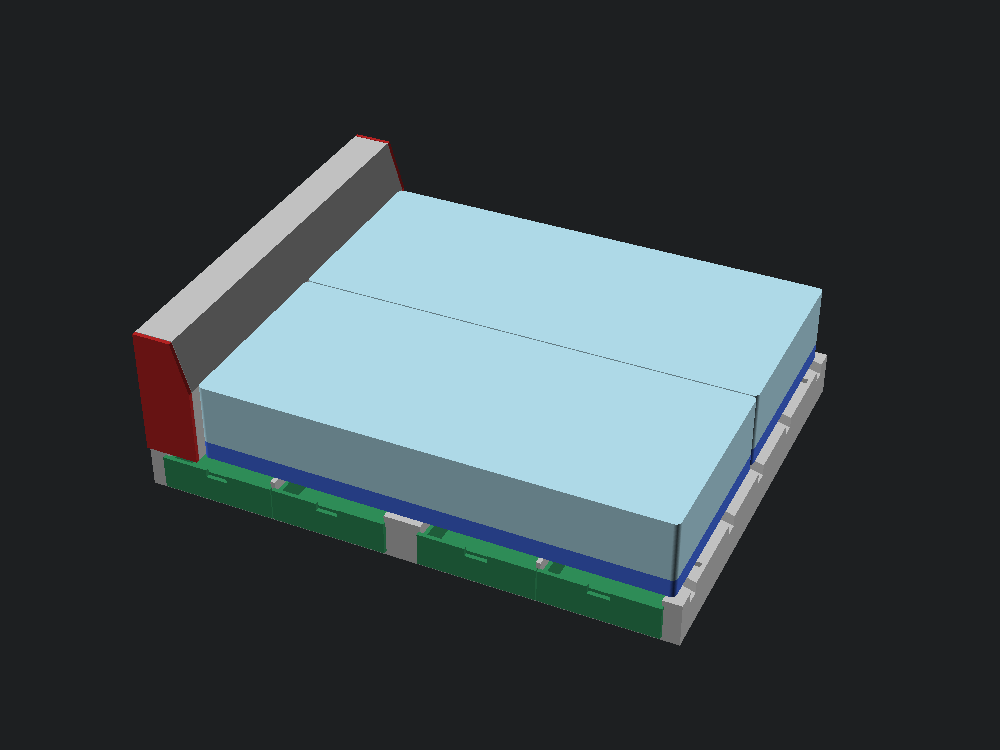
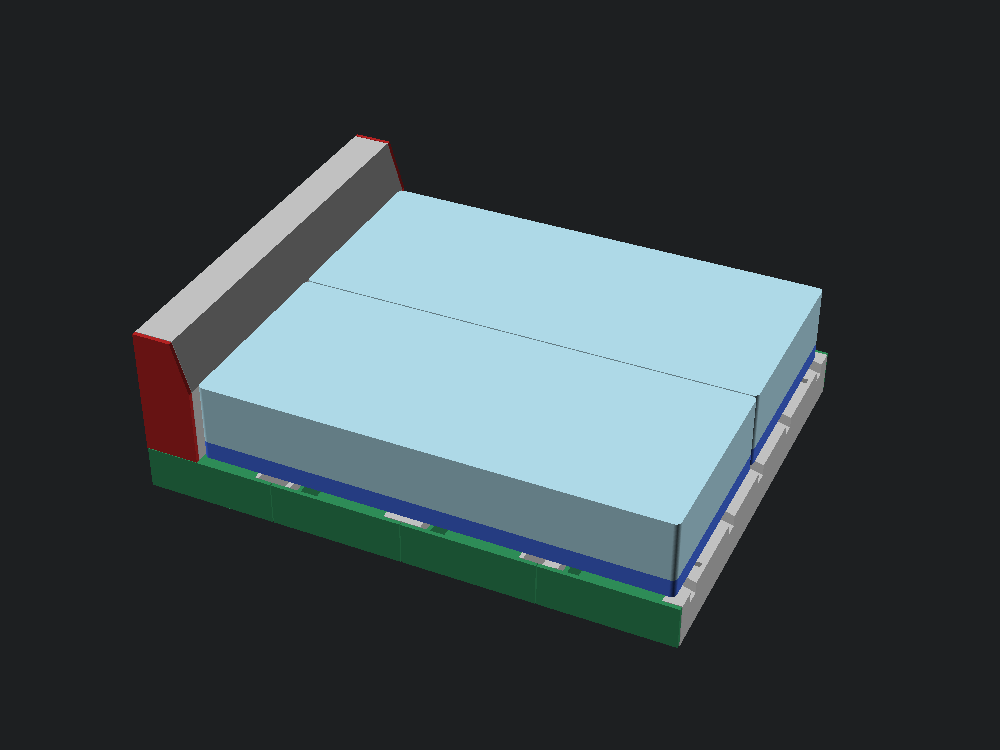
fix: make bed drawers full-face and nightstands flat-topped
Move complete finished panels with each base drawer, remove finger cutouts, and invert the nightstand cavities beneath solid shelf tops. Preserve interchangeable drawers with centered bays and support-free front-down printing, and regenerate the assembly previews and print plan.

Changed region(s): [[0.124, 0.5827, 0.62, 0.828], [0.589, 0.7973, 0.682, 0.8587]]

diff --git a/custom-king-storage-bed/miniature/model.py b/custom-king-storage-bed/miniature/model.py
@@ -34,12 +34,13 @@ LENGTH = full.OVERALL_LENGTH * MM
 SIDE_INSET = full.FACE_THICKNESS * MM
 WALL = 1.8
 COLLAR = 8.4
-DIVIDER = 2.0
+DIVIDER = 2*COLLAR
 KEY_HEIGHT = 5.0
 PIN_SIZE = 4.0
 PIN_HEIGHT = 3.6
 HOLE_DEPTH = 2.25
 DRAWER_TRAVEL = 35.0
+DRAWER_BODY_HEIGHT = 13.4
 POD_TRAVEL = full.POD_EXTENSION * MM
 POD_LENGTH = 72.0
 CAP = 1.9
@@ -114,6 +115,9 @@ def make_module(width, side, fit):
         for x in (COLLAR, COLLAR+opening+DIVIDER):
             result -= box(opening, width-COLLAR+EPS, HEIGHT,
                           (x, -EPS, WALL))
+        # Two thin guide walls keep the wide center divider light behind the full faces.
+        result -= box(DIVIDER-2*WALL, width-COLLAR+EPS, HEIGHT,
+                      (L/2-DIVIDER/2+WALL, -EPS, WALL))
     else:
         result -= box(L-2*COLLAR, width-2*COLLAR, HEIGHT,
                       (COLLAR, COLLAR, WALL))
@@ -130,12 +134,18 @@ def make_module(width, side, fit):
 
 def make_drawer(fit):
     opening = (L-2*COLLAR-DIVIDER)/2
-    w, d, h = opening-2*fit, SIDE-COLLAR-fit, 13.4
-    tray = box(w, d, h) - box(w-2*WALL, d-2*WALL, h,
-                              (WALL, WALL, WALL))
-    front = box(w+2.0, SIDE_INSET, 15.5, (-1.0, -SIDE_INSET, 0))
-    front -= box(10, SIDE_INSET+2*EPS, 3.6+EPS,
-                 (w/2-5, -SIDE_INSET-EPS, 11.9))
+    w, d, h = opening-2*fit, SIDE-COLLAR-fit, DRAWER_BODY_HEIGHT
+    # Front-down printing grows the internal rear ramp at 45 degrees, not as a bridged lid.
+    cavity_profile = [
+        (WALL, WALL), (d-WALL-(h-WALL), WALL),
+        (d-WALL+EPS, h+EPS), (WALL, h+EPS),
+    ]
+    cavity_face = Face(Wire.make_polygon(
+        [Vector(WALL, y, z) for y, z in cavity_profile], close=True))
+    cavity = extrude(cavity_face, amount=w-2*WALL, dir=(1, 0, 0))
+    tray = box(w, d, h)-cavity
+    front = box(L/2-2*fit, SIDE_INSET, HEIGHT-2*fit,
+                (-COLLAR, -SIDE_INSET, -WALL))
     return tray + front
 
 
@@ -168,8 +178,8 @@ def make_pod(fit):
     w = CHANNEL_X[1]-CHANNEL_X[0]-2*fit
     h = CHANNEL_Z[1]-CHANNEL_Z[0]-2*fit
     body = box(w, POD_LENGTH-CAP, h, (x, CAP, z))
-    body -= box(w-2*WALL, POD_LENGTH-CAP-WALL+EPS, h,
-                (x+WALL, CAP-EPS, z+WALL))
+    body -= box(w-2*WALL, POD_LENGTH-CAP-WALL+EPS, h-WALL+EPS,
+                (x+WALL, CAP-EPS, z-EPS))
     # A long hidden tail retains 29 mm of guidance at the 40.64 mm open pose.
     return headboard_solid(0, CAP) + body
 
@@ -253,13 +263,13 @@ def parts(fit):
     return {
         "side-module": Part(make_module(SIDE, True, fit), 4, 3, purpose="Open top up; outer drawer openings face out."),
         "center-module": Part(make_module(CENTER, False, fit), 2, 3, purpose="Open top up."),
-        "drawer": Part(make_drawer(fit), 8, 4, purpose="Tray opening up; front and finger notch are integral."),
+        "drawer": Part(make_drawer(fit), 8, 4, (90, 0, 0), "Full finished face down for printing; open tray up when assembled. Rear cavity ramp is 45 degrees."),
         "seam-key": Part(make_key(), 13, 3, purpose="Flat down; top-loaded seam key with a 2.4 mm extraction hole."),
         "foot": Part(make_foot(), 12, 3, purpose="Pad down, locating peg up."),
         "headboard-pin": Part(box(PIN_SIZE, PIN_SIZE, PIN_HEIGHT), 2, 3, purpose="One pin at each headboard locating hole."),
         "headboard": Part(make_headboard(fit), 1, 3, (0, -90, 0), "Back flat on the plate; channel roofs bridge 12.5 mm."),
-        "pod-left": Part(make_pod(fit), 1, 1, (90, 0, 0), "Left end cap flat down; tray grows vertically."),
-        "pod-right": Part(mirror(make_pod(fit), about=Plane.XZ), 1, 1, (-90, 0, 0), "Mirrored right end cap flat down; tray grows vertically."),
+        "pod-left": Part(make_pod(fit), 1, 1, (90, 0, 0), "Left end cap down for printing; assemble with flat shelf up and hollow underside down."),
+        "pod-right": Part(mirror(make_pod(fit), about=Plane.XZ), 1, 1, (-90, 0, 0), "Mirrored right end cap down for printing; assemble with flat shelf up and hollow underside down."),
         "base-insert": Part(make_base(), 2, 2, purpose="Lattice down; four mattress locators up. Static envelope only."),
         "mattress": Part(make_mattress(fit), 2, 2, (180, 0, 0), "Top face down; hollow ribbed underside up."),
         "fit-channels": Part(make_coupon(fit), 1, 3, purpose="Calibration only: one/two/three ticks = 0.20/0.25/0.35 mm per side."),
@@ -359,15 +369,36 @@ def validate(kit, fit):
         r._record(not collisions, f"{label}: no part interference; collisions={collisions}")
     drawer = kit["drawer"].shape
     opening = (L-2*COLLAR-DIVIDER)/2
+    printed_front = kit["drawer"].printable().intersect(
+        box(L/2-2*fit, HEIGHT-2*fit, SIDE_INSET))
+    r.volume(printed_front, (L/2-2*fit)*(HEIGHT-2*fit)*SIDE_INSET, tol_pct=0.01)
+    for index, x in enumerate((COLLAR, COLLAR+opening+DIVIDER)):
+        face_probe = box(L/2-2*fit, SIDE_INSET, HEIGHT-2*fit,
+                         (index*L/2+fit, -SIDE_INSET, fit))
+        closed_drawer = Pos(x+fit, 0, WALL+fit)*drawer
+        r.note(f"Drawer {index+1}: complete finished face with no finger notch or exposed face frame.")
+        r.volume(closed_drawer.intersect(face_probe), face_probe.volume, tol_pct=0.01)
     for x in (COLLAR, COLLAR+opening+DIVIDER):
         # Swept envelope includes every position, not only two end poses.
-        sweep = extrude(Face(Wire.make_polygon([
-            Vector(-1, 0, 0), Vector(opening-2*fit+1, 0, 0),
-            Vector(opening-2*fit+1, 0, 15.5), Vector(-1, 0, 15.5),
-        ], close=True)), amount=DRAWER_TRAVEL, dir=(0, -1, 0))
-        r.no_interference(Pos(x+fit, 0, WALL+fit)*sweep, kit["side-module"].shape)
+        face_sweep = box(L/2-2*fit, SIDE_INSET+DRAWER_TRAVEL, HEIGHT-2*fit,
+                         (-COLLAR, -SIDE_INSET-DRAWER_TRAVEL, -WALL))
+        body_sweep = box(opening-2*fit, SIDE-COLLAR-fit+DRAWER_TRAVEL, DRAWER_BODY_HEIGHT,
+                         (0, -DRAWER_TRAVEL, 0))
+        for sweep in (face_sweep, body_sweep):
+            r.no_interference(Pos(x+fit, 0, WALL+fit)*sweep, kit["side-module"].shape)
         for travel in (0, DRAWER_TRAVEL/2, DRAWER_TRAVEL):
             r.no_interference(Pos(x+fit, -travel, WALL+fit)*drawer, kit["side-module"].shape)
+    pod_width = CHANNEL_X[1]-CHANNEL_X[0]-2*fit
+    flat_top = box(pod_width, POD_LENGTH-CAP, WALL,
+                   (CHANNEL_X[0]+fit, CAP, CHANNEL_Z[1]-fit-WALL))
+    underside = box(pod_width-2*WALL, POD_LENGTH-CAP-WALL-EPS, WALL/2,
+                    (CHANNEL_X[0]+fit+WALL, CAP+EPS, CHANNEL_Z[0]+fit+EPS))
+    for name in ("pod-left", "pod-right"):
+        top_probe = flat_top if name == "pod-left" else mirror(flat_top, about=Plane.XZ)
+        underside_probe = underside if name == "pod-left" else mirror(underside, about=Plane.XZ)
+        r.note(f"{name}: continuous flat top and open underside, not an open-top drawer.")
+        r.volume(kit[name].shape.intersect(top_probe), top_probe.volume, tol_pct=0.01)
+        r.no_interference(kit[name].shape, underside_probe)
     for travel in (0, POD_TRAVEL/4, POD_TRAVEL/2, 3*POD_TRAVEL/4, POD_TRAVEL):
         r.no_interference(Pos(0, -travel, 0)*kit["pod-left"].shape, kit["headboard"].shape)
         r.no_interference(Pos(0, WIDTH+travel, 0)*kit["pod-right"].shape, kit["headboard"].shape)

diff --git a/custom-king-storage-bed/miniature/slice.rb b/custom-king-storage-bed/miniature/slice.rb
@@ -63,7 +63,7 @@ selected.each do |name|
     mesh.match?(/^manifold = yes$/) && mesh.match?(/^number_of_parts =\s+1$/)
   File.write(File.join(BUILD, "slice-reports", "#{name}-mesh.txt"), mesh)
 
-  brim = %w[foot headboard-pin seam-key pod-left pod-right base-insert mattress headboard].include?(name) ? 3 : 0
+  brim = %w[drawer foot headboard-pin seam-key pod-left pod-right base-insert mattress headboard].include?(name) ? 3 : 0
   x, y, z = part.fetch("size_mm")
   # Reserve the larger of the skirt or brim, plus an extrusion-width margin.
   margin = [brim, 3].max + 0.6

diff --git a/custom-king-storage-bed/miniature/README.md b/custom-king-storage-bed/miniature/README.md
@@ -20,13 +20,13 @@ The [generated print plan](print-plan.md) lists measured per-copy and complete-k
 |---|---:|---|---|
 | `side-module` | 4 | 3 / silver PLA | Floor down, both bays open upward |
 | `center-module` | 2 | 3 / silver PLA | Floor down, cavity upward |
-| `drawer` | 8 | 4 / green PLA | Open tray upward |
+| `drawer` | 8 | 4 / green PLA | Complete finished face down, tray vertical |
 | `seam-key` | 13 | 3 / silver PLA | Broad face down |
 | `foot` | 12 | 3 / silver PLA | Pad down, square peg up |
 | `headboard-pin` | 2 | 3 / silver PLA | Flat end down |
 | `headboard` | 1 | 3 / silver PLA | Broad back down, not upright |
-| `pod-left` | 1 | 1 / red PLA | End cap down, tray vertical |
-| `pod-right` | 1 | 1 / red PLA | Mirrored end cap down, tray vertical |
+| `pod-left` | 1 | 1 / red PLA | End cap down, shelf vertical |
+| `pod-right` | 1 | 1 / red PLA | Mirrored end cap down, shelf vertical |
 | `base-insert` | 2 | 2 / blue PLA | Lattice down, locators up |
 | `mattress` | 2 | 2 / blue PLA | Top down, underside recess up |
 | `fit-channels` | 1, calibration only | 3 / silver PLA | Flat base down |
@@ -37,9 +37,11 @@ The two pods are genuinely handed parts: print one of each, not two copies of th
 
 ## Design contract
 
-The frame consists of four identical outside two-drawer modules and two identical center modules, arranged three across and two long. Thirteen top-loaded butterfly keys join the six modules; twelve removable feet preserve the scaled floor clearance. Eight hollow drawers have integrated fronts and finger notches. One removable headboard locates on two square pins, with two end-cap nightstand trays sliding laterally. Two static adjustable-base envelopes support two separate rigid mattress pieces, hollow underneath with a 2.4 mm top skin and internal ribs to reduce material.
+The frame consists of four identical outside two-drawer modules and two identical center modules, arranged three across and two long. Thirteen top-loaded butterfly keys join the six modules; twelve removable feet preserve the scaled floor clearance. Each of the eight hollow drawers carries its complete finished face: a full-height half-module panel, with no finger notch and no exposed fixed frame surrounding it. Narrow seams separate the panels, and the entire panel moves with its drawer. One removable headboard locates on two square pins, with two flat-topped nightstand shelves whose whole end caps slide laterally. Each shelf is like an inverted drawer: a continuous 1.8 mm top with a hollow underside and downward side walls that ride on the channel floor. Two static adjustable-base envelopes support two separate rigid mattress pieces, hollow underneath with a 2.4 mm top skin and internal ribs to reduce material.
 
 The nominal scale is 1:10. Walls, joints, and clearances are designed in millimeters rather than blindly scaled. Handled walls start at 1.8 mm; the wider module end/back walls support the seam pockets. The separate feet and keys are deliberately simplified miniature hardware, not a reproduction of the full-size support count or load path. The foot fascia is omitted, shortening the model by 0.635 mm.
+
+The base drawer panels leave a 0.5 mm seam between adjacent faces at the default fit and conceal the supporting carcass behind them. All eight drawers remain interchangeable. Their smaller boxes are centered behind the broad faces; a lightened center divider carries their inner guide walls. Grip a panel's lower edge from below rather than reaching through a hole in its face. Inside each drawer, a 45-degree rear ramp lets the box print from its face without a long unsupported closing wall.
 
 The headboard is trimmed ahead of the sleep system instead of reproducing the provisional four-inch full-size overlap. Each nightstand has a longer hidden guide tail, allowing 40.64 mm of lateral movement with at least 28 mm still engaged. Drawers pull out 35 mm for display. Neither has a captive stop; both can be removed completely and should be supported by hand when open. The two rigid mattresses are a miniature adaptation of the full-size model's single Flex-Head mattress. The base inserts do not articulate.
 
@@ -49,9 +51,9 @@ The headboard is trimmed ahead of the sleep system instead of reproducing the pr
 |---|---|---|
 | Module seams | Butterfly keys drop vertically into paired pockets; lift the sleep system off to remove them. | Modules floor-down and open-top; keys broad-face down. |
 | Feet | Square pegs enter the module floor from below. | Flat pads down, pegs up. |
-| Drawers | Straight sliding fit in open-top bays; integrated fronts seat at the outside edge. | Open trays up, fronts printed as part of the tray. |
+| Drawers | Straight sliding fit; each full-height finished panel conceals the fixed carcass and moves with its box. | Finished face down; tray grows vertically, with a 45-degree internal rear ramp. |
 | Headboard | Two square pins locate the housing on the head modules; gravity seats it. | Housing back down; two lateral channel roofs bridge 12.5 mm. |
-| Nightstands | End-cap trays slide in straight channels; hidden tails retain guidance when open. | End cap down, tray growing vertically. |
+| Nightstands | Flat shelves slide on their underside walls inside straight channels; hidden tails retain guidance when open. | End cap down, shelf and underside walls growing vertically. |
 | Mattress/base | Four base locators enter the hollow mattress underside inside its perimeter rim. | Bases lattice-down; mattresses top-down, hollow side up. |
 
 Print one part per job initially. All production parts are supplied in their intended print orientation. Assemblies under `build/closed`, `build/open`, and `build/exploded` are for viewing, not slicing.
@@ -60,7 +62,7 @@ Print one part per job initially. All production parts are supplied in their int
 
 The supplied jobs target a Prusa MK4 with a 0.4 mm nozzle and MMU3: 0.15 mm layers, 0.20 mm first layer, four perimeters, 15% gyroid infill, and six top/bottom solid layers. Supports and the wipe tower are explicitly disabled; a 3 mm skirt distance and 0.15 mm elephant-foot compensation are specified. The slicer binds perimeter, solid infill, and infill to the listed single lane. The hollow mattresses print top-down: the complete skin prints on the plate first, then the walls and ribs rise from it, so their large internal cavities do not require bridging.
 
-The headboard, both pods, both mattress jobs, base inserts, feet, keys, and pins use a 3 mm outer brim. Remove it without shaving mating surfaces. Other jobs have no brim. Clean the smooth PEI sheet and inspect the first layer. The headboard's printed channel roofs span 12.5 mm; the small horizontal pin pockets span 4.5 mm at the default fit. Check those openings for sagging before inserting a pod or pin. The pod's tall tray prints from its broad end cap, avoiding a long unsupported shelf.
+The drawers, headboard, both pods, both mattress jobs, base inserts, feet, keys, and pins use a 3 mm outer brim. Remove it without shaving mating surfaces. Other jobs have no brim. Clean the smooth PEI sheet and inspect the first layer. The headboard's printed channel roofs span 12.5 mm; the small horizontal pin pockets span 4.5 mm at the default fit. Check those openings for sagging before inserting a pod or pin. Each nightstand prints standing on its broad end cap, so its flat shelf surface grows vertically instead of bridging the underside cavity. Base drawers likewise print on their complete faces, with an internal ramp supporting the rear closure.
 
 The largest reserved footprints, including skirt/brim allowance, remain within the 250 x 210 mm plate. All components are supplied at their final size in millimeters: **do not use slicer auto-scale or "fit to bed."** The assembled open model may be wider than the build plate; that does not affect separately printed parts.
 
@@ -80,9 +82,9 @@ If the default binds, rebuild with `--fit 0.35`, regenerate g-code, and repeat t
 2. **Fit two feet beneath each chassis module.** The square peg enters the matching opening in the module floor. The flat pad sits on the table. These are locating fits, not snap-locks.
 3. **Arrange the six chassis modules.** At each end, place one center module between two side modules. Rotate the right-side units 180 degrees on the table so their drawer openings face outward. Bring the two three-module rows together lengthwise.
 4. **Install thirteen seam keys from above.** Use two keys along each side-to-center seam: four such seams use eight keys. Across the midpoint seam, use two keys in the left pair, one in the center pair, and two in the right pair: five more. Keys sit flush or slightly recessed. Unused pockets around the outside are intentional consequences of the interchangeable module design.
-5. **Insert the eight drawers.** Keep the open side up and finger-notch front facing out. Push each front gently against the outside edge. They should slide by hand; the 35 mm open display position leaves useful support under the tray.
+5. **Insert the eight drawers.** Keep the open box up and its complete finished panel facing out. Push gently until the panel seats against the outside edge. The closed panels cover the fixed frame and leave only narrow seams. Pull from the bottom edge of the panel; there is no finger cutout. The 35 mm open display position leaves useful support under the box.
 6. **Fit the headboard.** The headboard is at the end nearest the mattress head, with its broad flat back facing away from the bed and its sloping front facing the foot. Put one square pin in each of the two corresponding module-top holes, then lower the housing onto them. The housing rests on the chassis, not on the pins.
-7. **Insert the handed nightstands.** Feed each long tray tail into its side channel while keeping the tray open upward. The red end cap continues the headboard's slope when closed. Pull outward no more than about 41 mm for display; support it by hand because there is no captive end stop.
+7. **Insert the handed nightstands.** Feed each long guide tail into its side channel with the continuous flat shelf facing upward and the hollow underside facing down. The underside walls bear on the channel floor; the channel sides and ceiling guide the retained tail. The red end cap continues the headboard's slope when closed. Pull outward no more than about 41 mm for display; support it by hand because there is no captive end stop.
 8. **Place the two blue base inserts.** Their long edges run head-to-foot. Place their head edges 25.4 mm from the back end of the chassis, just ahead of the headboard. Center them with 5.08 mm side margins and a 0.6 mm gap between halves; the foot margin is about 4.45 mm. They rest on the module tops without fasteners.
 9. **Seat the two mattresses.** Turn them top-up, recess-down, and lower each over the four small locator tabs on its own base. The two pieces remain independently removable.
 
@@ -101,7 +103,7 @@ If the default binds, rebuild with `--fit 0.35`, regenerate g-code, and repeat t
 
 ![Open display position with side drawers and headboard nightstands extended.](assets/open.png)
 
-To disassemble, lift off the mattresses and bases, remove the headboard and trays, and extract the seam keys. The key's 2.4 mm hole accepts a small hook or bent paperclip for lifting; do not pry against the thin pocket edges. Support the feet when picking up a module because they are intentionally removable.
+To disassemble, lift off the mattresses and bases, remove the headboard, nightstand shelves, and drawers, and extract the seam keys. The key's 2.4 mm hole accepts a small hook or bent paperclip for lifting; do not pry against the thin pocket edges. Support the feet when picking up a module because they are intentionally removable.
 
 ## Build
 

diff --git a/custom-king-storage-bed/miniature/print-plan.md b/custom-king-storage-bed/miniature/print-plan.md
@@ -14,22 +14,22 @@ Each file contains one copy, already oriented. Repeat the job to reach the total
 
 | File | Total copies | Slot / PLA color | Size X x Y x Z, mm | Brim | Time per copy | Filament per copy |
 |---|---:|---|---|---:|---|---:|
-| [`side-module.bgcode`](build/gcode/side-module.bgcode) | 4 | 3 / silver | 121.6 x 69.2 x 20.3 | 0 mm | 1h 32m 16s | 46.61 g |
+| [`side-module.bgcode`](build/gcode/side-module.bgcode) | 4 | 3 / silver | 121.6 x 69.2 x 20.3 | 0 mm | 1h 36m 2s | 48.78 g |
 | [`center-module.bgcode`](build/gcode/center-module.bgcode) | 2 | 3 / silver | 121.6 x 50.8 x 20.3 | 0 mm | 1h 34m 55s | 45.50 g |
-| [`drawer.bgcode`](build/gcode/drawer.bgcode) | 8 | 4 / green | 52.9 x 62.5 x 15.5 | 0 mm | 27m 55s | 14.62 g |
+| [`drawer.bgcode`](build/gcode/drawer.bgcode) | 8 | 4 / green | 60.3 x 19.8 x 62.5 | 3 mm | 1h 6m 39s | 14.68 g |
 | [`seam-key.bgcode`](build/gcode/seam-key.bgcode) | 13 | 3 / silver | 12.0 x 10.0 x 5.0 | 3 mm | 5m 56s | 0.79 g |
 | [`foot.bgcode`](build/gcode/foot.bgcode) | 12 | 3 / silver | 8.9 x 8.9 x 14.1 | 3 mm | 12m 56s | 1.19 g |
 | [`headboard-pin.bgcode`](build/gcode/headboard-pin.bgcode) | 2 | 3 / silver | 4.0 x 4.0 x 3.6 | 3 mm | 1m 41s | 0.31 g |
 | [`headboard.bgcode`](build/gcode/headboard.bgcode) | 1 | 3 / silver | 58.4 x 188.7 x 24.9 | 3 mm | 3h 27m 0s | 98.33 g |
-| [`pod-left.bgcode`](build/gcode/pod-left.bgcode) | 1 | 1 / red | 24.9 x 58.4 x 72.0 | 3 mm | 1h 13m 13s | 9.44 g |
-| [`pod-right.bgcode`](build/gcode/pod-right.bgcode) | 1 | 1 / red | 24.9 x 58.4 x 72.0 | 3 mm | 1h 13m 9s | 9.44 g |
+| [`pod-left.bgcode`](build/gcode/pod-left.bgcode) | 1 | 1 / red | 24.9 x 58.4 x 72.0 | 3 mm | 1h 13m 10s | 9.44 g |
+| [`pod-right.bgcode`](build/gcode/pod-right.bgcode) | 1 | 1 / red | 24.9 x 58.4 x 72.0 | 3 mm | 1h 13m 14s | 9.44 g |
 | [`base-insert.bgcode`](build/gcode/base-insert.bgcode) | 2 | 2 / blue | 213.4 x 91.1 x 9.5 | 3 mm | 39m 45s | 19.92 g |
 | [`mattress.bgcode`](build/gcode/mattress.bgcode) | 2 | 2 / blue | 213.4 x 91.1 x 27.9 | 3 mm | 3h 12m 39s | 112.70 g |
 | [`fit-channels.bgcode`](build/gcode/fit-channels.bgcode) | 1 (sample) | 3 / silver | 82.0 x 32.0 x 7.0 | 0 mm | 19m 11s | 8.42 g |
 | [`fit-slider.bgcode`](build/gcode/fit-slider.bgcode) | 1 (sample) | 4 / green | 15.0 x 22.0 x 5.0 | 0 mm | 6m 15s | 1.61 g |
 | [`fit-connectors.bgcode`](build/gcode/fit-connectors.bgcode) | 1 (sample) | 3 / silver | 34.0 x 24.0 x 8.0 | 0 mm | 13m 40s | 5.02 g |
 
-**Production totals:** 30h 36m 06s and 802.02 g. **Three calibration pieces:** 0h 39m 06s and 15.05 g, in addition to production totals. The tested key and pin are already included in production totals.
+**Production totals:** 36h 01m 04s and 811.18 g. **Three calibration pieces:** 0h 39m 06s and 15.05 g, in addition to production totals. The tested key and pin are already included in production totals.
 
 These are PrusaSlicer estimates summed across separate single-copy jobs, not elapsed project time. They exclude loading, unloading, plate cleaning, cooldown, assembly, retries, and failed prints. Batching or changing profiles will change the numbers.
 
